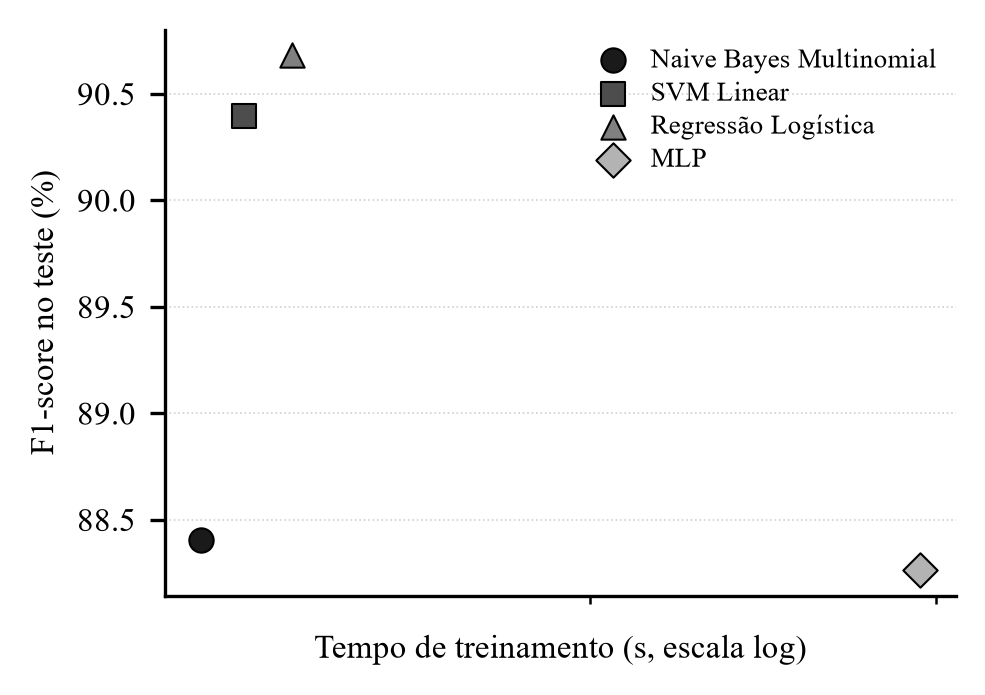
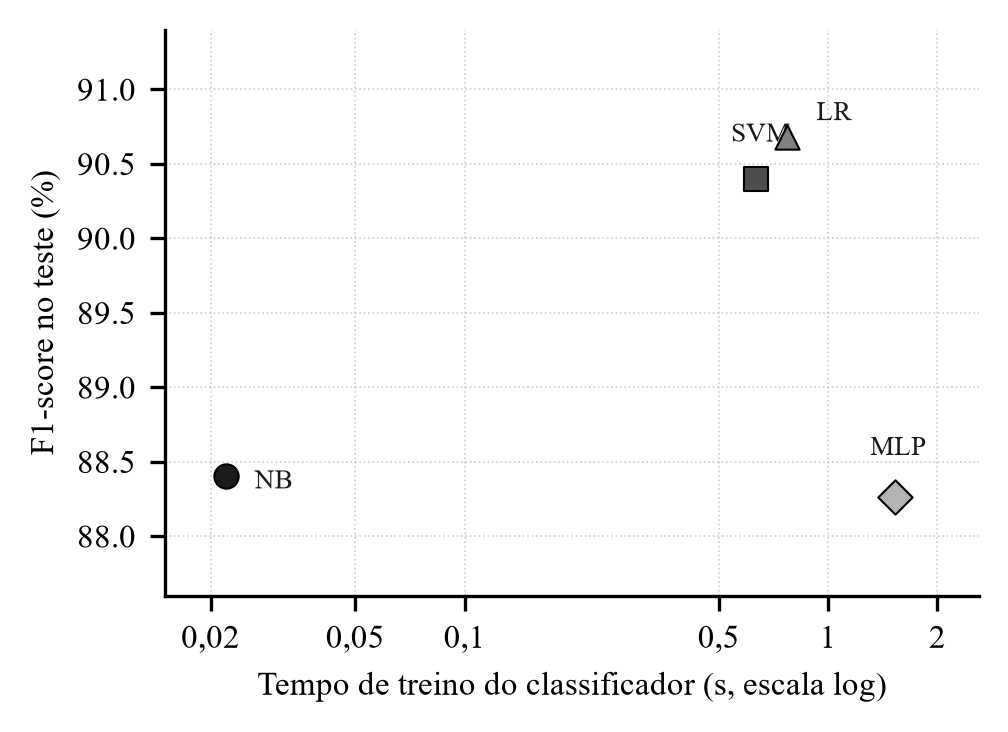
Grafico de custo legivel: eixo rotulado e pontos anotados
- eixo x com valores explicitos (0,02 a 2 s) e tempo de treino do classificador
- pontos rotulados (NB, SVM, LR, MLP) no lugar da legenda sobreposta

diff --git a/scripts/make_figures.py b/scripts/make_figures.py
@@ -166,21 +166,27 @@ def figure_cost(table: pd.DataFrame, path: Path) -> None:
     palette = _palette(models)
     data = table.set_index("model").loc[models]
 
-    fig, ax = plt.subplots(figsize=(3.4, 2.45))
+    fig, ax = plt.subplots(figsize=(3.5, 2.45))
+    offsets = {"nb": (7, -3), "svm": (-6, 9), "logreg": (7, 4), "mlp": (-6, 10)}
     for index, model in enumerate(models):
         row = data.loc[model]
-        ax.scatter(row["final_fit_s"], 100 * row["f1"],
+        ax.scatter(row["classifier_fit_s"], 100 * row["f1"],
                    s=34, color=palette[model][0], edgecolor="black",
-                   linewidth=0.5, zorder=3, marker=MARKERS[index % len(MARKERS)],
-                   label=MODEL_LABELS[model])
+                   linewidth=0.5, zorder=3, marker=MARKERS[index % len(MARKERS)])
+        ax.annotate(SHORT_LABELS.get(model, model),
+                    (row["classifier_fit_s"], 100 * row["f1"]),
+                    textcoords="offset points", xytext=offsets.get(model, (6, 4)),
+                    fontsize=6.5, color="#1a1a1a")
     ax.set_xscale("log")
-    ax.xaxis.set_major_formatter(mticker.ScalarFormatter())
-    ax.xaxis.set_minor_formatter(mticker.NullFormatter())
-    ax.set_xlabel("Tempo de treinamento (s, escala log)", fontsize=8)
+    ticks = [0.02, 0.05, 0.1, 0.5, 1, 2]
+    ax.set_xticks(ticks)
+    ax.set_xticklabels(["0,02", "0,05", "0,1", "0,5", "1", "2"])
+    ax.xaxis.set_minor_locator(mticker.NullLocator())
+    ax.set_xlim(0.015, 2.6)
+    ax.set_xlabel("Tempo de treino do classificador (s, escala log)", fontsize=8)
     ax.set_ylabel("F1-score no teste (%)", fontsize=8)
     ax.grid(linestyle=":", linewidth=0.4, alpha=0.6)
-    ax.legend(frameon=False, loc="best", fontsize=6.5, handletextpad=0.4,
-              borderpad=0.2, labelspacing=0.3)
+    ax.set_ylim(87.6, 91.4)
     fig.savefig(path)
     plt.close(fig)
 
